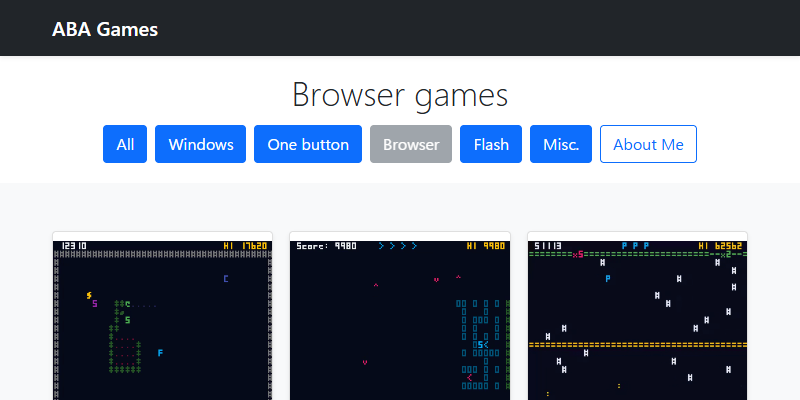
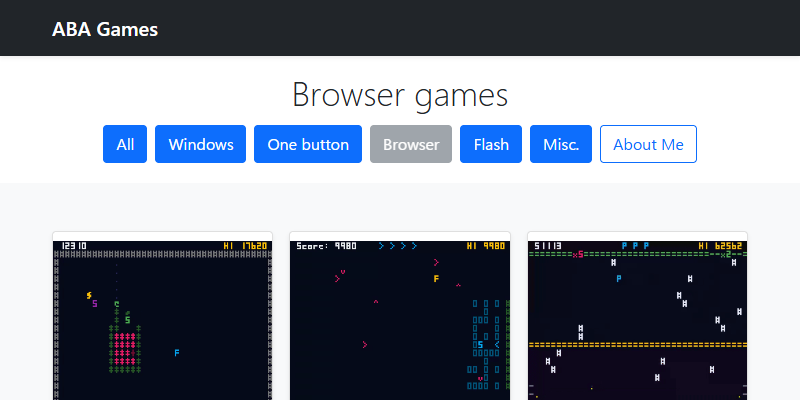
Fix screenshots

diff --git a/docs/index.html b/docs/index.html
@@ -8476,6 +8476,38 @@ class="btn btn-primary m-1">Misc.</a>
   <div class="card shadow-sm">
     
 <img
+  src="https://github.com/abagames/1x111/raw/main/docs/1x111.gif"
+  alt="1x111"
+  class="bd-placeholder-img card-img-top"
+  height="225"
+  style="object-fit: contain"
+  loading="lazy"
+/>
+
+    <div class="card-body">
+      <p class="card-text">1x111</p>
+      <div
+        class="d-flex justify-content-between align-items-center"
+      >
+        <div class="btn-group">
+          
+          <a
+            href="https://abagames.itch.io/1x111"
+            class="btn btn-primary my-2"
+            >Detail</a
+          >
+
+        </div>
+        <small class="text-muted">Browser</small>
+      </div>
+    </div>
+  </div>
+</div>
+
+<div class="col">
+  <div class="card shadow-sm">
+    
+<img
   src="https://github.com/abagames/crisp-game-lib-games/raw/main/docs/cnodes/screenshot.gif"
   alt="C NODES"
   class="bd-placeholder-img card-img-top"
@@ -10948,7 +10980,7 @@ class="btn btn-primary m-1">Misc.</a>
   <div class="card shadow-sm">
     
 <img
-  src="https://camo.githubusercontent.com/c1a5d353b317814999771611ec2373a79d3ec89088cff40a7ce0391904f1182f/687474703a2f2f61626167616d65732e73616b7572612e6e652e6a702f31382f736e616b652d73686966742f73637265656e73686f742e676966"
+  src="https://www.asahi-net.or.jp/~cs8k-cyu/img/snake-shift.gif"
   alt="SNAKE SHIFT"
   class="bd-placeholder-img card-img-top"
   height="225"
@@ -10964,9 +10996,9 @@ class="btn btn-primary m-1">Misc.</a>
         <div class="btn-group">
           
           <a
-            href="https://snake-shift.glitch.me/"
+            href="https://github.com/abagames/snake-shift"
             class="btn btn-primary my-2"
-            >Play</a
+            >Detail</a
           >
 
         </div>
@@ -10996,9 +11028,9 @@ class="btn btn-primary m-1">Misc.</a>
         <div class="btn-group">
           
           <a
-            href="https://darumatron.glitch.me/"
+            href="https://github.com/abagames/darumatron"
             class="btn btn-primary my-2"
-            >Play</a
+            >Detail</a
           >
 
         </div>
@@ -15084,38 +15116,6 @@ class="btn btn-primary m-1">Misc.</a>
   <div class="card shadow-sm">
     
 <img
-  src="https://github.com/abagames/1x111/raw/main/docs/1x111.gif"
-  alt="1x111"
-  class="bd-placeholder-img card-img-top"
-  height="225"
-  style="object-fit: contain"
-  loading="lazy"
-/>
-
-    <div class="card-body">
-      <p class="card-text">1x111</p>
-      <div
-        class="d-flex justify-content-between align-items-center"
-      >
-        <div class="btn-group">
-          
-          <a
-            href="https://abagames.itch.io/1x111"
-            class="btn btn-primary my-2"
-            >Detail</a
-          >
-
-        </div>
-        <small class="text-muted">Misc.</small>
-      </div>
-    </div>
-  </div>
-</div>
-
-<div class="col">
-  <div class="card shadow-sm">
-    
-<img
   src="https://www.asahi-net.or.jp/~cs8k-cyu/bulletml/bulletml1.gif"
   alt="BulletML"
   class="bd-placeholder-img card-img-top"
@@ -16188,7 +16188,7 @@ class="btn btn-primary m-1">Misc.</a>
   <div class="card shadow-sm">
     
 <img
-  src="https://camo.githubusercontent.com/8cef8b89398c9fdb06e9d5f549f028e05eead0f41b0173ce1129254159bff773/687474703a2f2f61626167616d65732e73616b7572612e6e652e6a702f31362f706f6e67706563746f722f73637265656e73686f742e676966"
+  src="https://www.asahi-net.or.jp/~cs8k-cyu/img/pongpector.gif"
   alt="pongpector"
   class="bd-placeholder-img card-img-top"
   height="225"

diff --git a/docs/browser.html b/docs/browser.html
@@ -188,6 +188,38 @@ class="btn btn-primary m-1">Misc.</a>
   <div class="card shadow-sm">
     
 <img
+  src="https://github.com/abagames/1x111/raw/main/docs/1x111.gif"
+  alt="1x111"
+  class="bd-placeholder-img card-img-top"
+  height="225"
+  style="object-fit: contain"
+  loading="lazy"
+/>
+
+    <div class="card-body">
+      <p class="card-text">1x111</p>
+      <div
+        class="d-flex justify-content-between align-items-center"
+      >
+        <div class="btn-group">
+          
+          <a
+            href="https://abagames.itch.io/1x111"
+            class="btn btn-primary my-2"
+            >Detail</a
+          >
+
+        </div>
+        <small class="text-muted">Browser</small>
+      </div>
+    </div>
+  </div>
+</div>
+
+<div class="col">
+  <div class="card shadow-sm">
+    
+<img
   src="https://github.com/abagames/crisp-game-lib-games/raw/main/docs/cnodes/screenshot.gif"
   alt="C NODES"
   class="bd-placeholder-img card-img-top"
@@ -2660,7 +2692,7 @@ class="btn btn-primary m-1">Misc.</a>
   <div class="card shadow-sm">
     
 <img
-  src="https://camo.githubusercontent.com/c1a5d353b317814999771611ec2373a79d3ec89088cff40a7ce0391904f1182f/687474703a2f2f61626167616d65732e73616b7572612e6e652e6a702f31382f736e616b652d73686966742f73637265656e73686f742e676966"
+  src="https://www.asahi-net.or.jp/~cs8k-cyu/img/snake-shift.gif"
   alt="SNAKE SHIFT"
   class="bd-placeholder-img card-img-top"
   height="225"
@@ -2676,9 +2708,9 @@ class="btn btn-primary m-1">Misc.</a>
         <div class="btn-group">
           
           <a
-            href="https://snake-shift.glitch.me/"
+            href="https://github.com/abagames/snake-shift"
             class="btn btn-primary my-2"
-            >Play</a
+            >Detail</a
           >
 
         </div>
@@ -2708,9 +2740,9 @@ class="btn btn-primary m-1">Misc.</a>
         <div class="btn-group">
           
           <a
-            href="https://darumatron.glitch.me/"
+            href="https://github.com/abagames/darumatron"
             class="btn btn-primary my-2"
-            >Play</a
+            >Detail</a
           >
 
         </div>

diff --git a/docs/misc.html b/docs/misc.html
@@ -220,38 +220,6 @@ class="btn btn-primary m-1">Flash</a>
   <div class="card shadow-sm">
     
 <img
-  src="https://github.com/abagames/1x111/raw/main/docs/1x111.gif"
-  alt="1x111"
-  class="bd-placeholder-img card-img-top"
-  height="225"
-  style="object-fit: contain"
-  loading="lazy"
-/>
-
-    <div class="card-body">
-      <p class="card-text">1x111</p>
-      <div
-        class="d-flex justify-content-between align-items-center"
-      >
-        <div class="btn-group">
-          
-          <a
-            href="https://abagames.itch.io/1x111"
-            class="btn btn-primary my-2"
-            >Detail</a
-          >
-
-        </div>
-        <small class="text-muted">Misc.</small>
-      </div>
-    </div>
-  </div>
-</div>
-
-<div class="col">
-  <div class="card shadow-sm">
-    
-<img
   src="https://www.asahi-net.or.jp/~cs8k-cyu/bulletml/bulletml1.gif"
   alt="BulletML"
   class="bd-placeholder-img card-img-top"
@@ -1324,7 +1292,7 @@ class="btn btn-primary m-1">Flash</a>
   <div class="card shadow-sm">
     
 <img
-  src="https://camo.githubusercontent.com/8cef8b89398c9fdb06e9d5f549f028e05eead0f41b0173ce1129254159bff773/687474703a2f2f61626167616d65732e73616b7572612e6e652e6a702f31362f706f6e67706563746f722f73637265656e73686f742e676966"
+  src="https://www.asahi-net.or.jp/~cs8k-cyu/img/pongpector.gif"
   alt="pongpector"
   class="bd-placeholder-img card-img-top"
   height="225"
